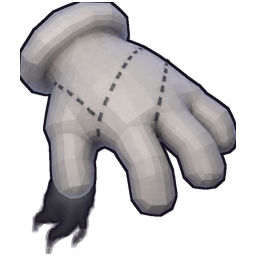
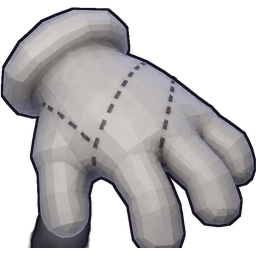
feat(brand): crop mist out of the toolbar glove
The status dot is drawn on the glove so the 16px active and inactive icons stay readable.

diff --git a/docs/brand/scripts/pack-icons.py b/docs/brand/scripts/pack-icons.py
@@ -71,6 +71,42 @@ def opaque_bbox(im: Image.Image, min_alpha: int = 24) -> tuple[int, int, int, in
     return (min_x, min_y, max_x + 1, max_y + 1)
 
 
+def glove_bbox(
+    im: Image.Image,
+    min_lum: int = 140,
+    min_row: int = 40,
+    pad: int = 8,
+) -> tuple[int, int, int, int]:
+    """Bounding box of the solid glove.
+
+    The wrist mist and smoke are faint rows under the cuff. Counting them
+    makes the crop tall, so the glove is scaled down to fit the trail.
+    A row counts only when it has a solid run of bright pixels.
+    """
+    rgba = im.convert("RGBA")
+    px = rgba.load()
+    w, h = rgba.size
+    rows: list[tuple[int, int, int]] = []
+    for y in range(h):
+        xs: list[int] = []
+        for x in range(w):
+            r, g, b, a = px[x, y]
+            if a < 24:
+                continue
+            if (r + g + b) / 3 < min_lum:
+                continue
+            xs.append(x)
+        if len(xs) >= min_row:
+            rows.append((y, min(xs), max(xs)))
+    if not rows:
+        return opaque_bbox(im)
+    min_x = max(0, min(row[1] for row in rows) - pad)
+    max_x = min(w, max(row[2] for row in rows) + 1 + pad)
+    min_y = max(0, rows[0][0] - pad)
+    max_y = min(h, rows[-1][0] + 1 + pad)
+    return (min_x, min_y, max_x, max_y)
+
+
 def with_outline(src: Image.Image, width: int) -> Image.Image:
     """Dark silhouette ring so a bone-white mark reads on a light toolbar."""
     if width <= 0:
@@ -105,15 +141,16 @@ def add_status_dot(icon: Image.Image, size: int) -> Image.Image:
 
 
 def transparent_icon(glove: Image.Image, size: int, status_dot: bool) -> Image.Image:
-    """Evernote-style: mark only, full alpha, fill the square."""
-    cropped = glove.crop(opaque_bbox(glove))
-    # Evernote 38px fills ~84% width and ~100% height. Match that: fill the
-    # canvas on the long axis, keep a 1px gutter so Chrome's squircle doesn't clip.
-    gutter = 1 if size <= 32 else 2
-    box = max(1, size - 2 * gutter)
-    scale = min(box / cropped.width, box / cropped.height)
-    new_w = max(1, int(cropped.width * scale))
-    new_h = max(1, int(cropped.height * scale))
+    """Glove fills the square. The status dot is painted on top and may cover it."""
+    cropped = glove.crop(glove_bbox(glove))
+    long_side = max(cropped.width, cropped.height)
+    scale = size / long_side
+    new_w = max(1, round(cropped.width * scale))
+    new_h = max(1, round(cropped.height * scale))
+    if cropped.width >= cropped.height:
+        new_w = size
+    else:
+        new_h = size
     fitted = cropped.resize((new_w, new_h), Image.Resampling.LANCZOS)
     outlined = with_outline(fitted, width=1 if size <= 32 else 2)
     canvas = Image.new("RGBA", (size, size), (0, 0, 0, 0))

diff --git a/docs/brand/INDEX.md b/docs/brand/INDEX.md
@@ -27,7 +27,7 @@ Inspired by SM64 cartoon gloves. Not Mario, not Boo, not a Nintendo asset.
 | README / docs mark on light or dark | `derived/mark-transparent-512.png` (or 1024) | alpha PNG |
 | Future / retina | `derived/extension/icon-{256,512}.png` | 256 / 512 |
 
-Toolbar icons follow the Evernote pattern: **PNG with full transparency**, no circular plate, mark filling the square (their elephant is ~84% wide and edge-to-edge tall; corners are `(0,0,0,0)`). Chrome squircle-masks the canvas; the toolbar shows through the alpha. A thin ink outline keeps the bone-white glove readable on a light bar. Active status is a **green dot on the icon** — Chrome badges cannot be a circle.
+Toolbar icons are a **PNG with full transparency**, no circular plate. The crop is the solid glove; the wrist mist and smoke are left out so the glove fills the square. Chrome squircle-masks the canvas; the toolbar shows through the alpha. A thin ink outline keeps the bone-white glove readable on a light bar. Active status is a **green dot painted over the corner** — Chrome badges cannot be a circle.
 
 Not selling, so no Chrome Web Store promo tiles (440×280 / 1400×560). Re-derive from masters if that ever changes.
 
